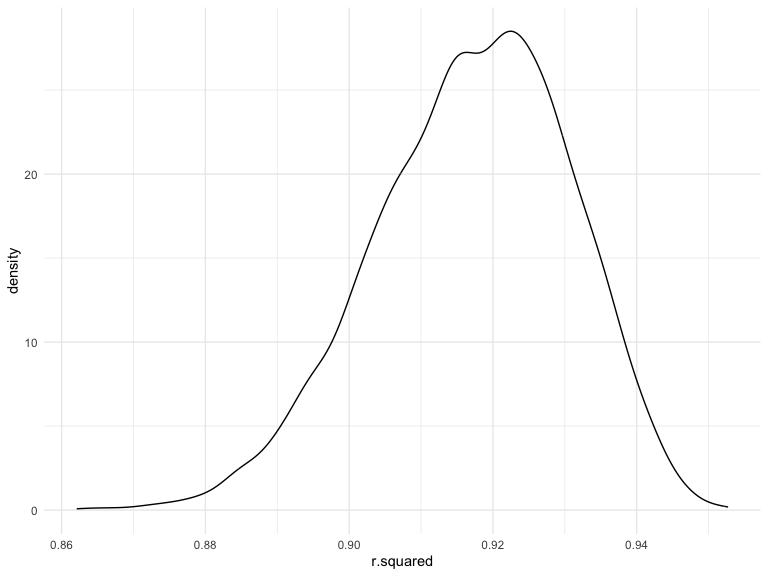
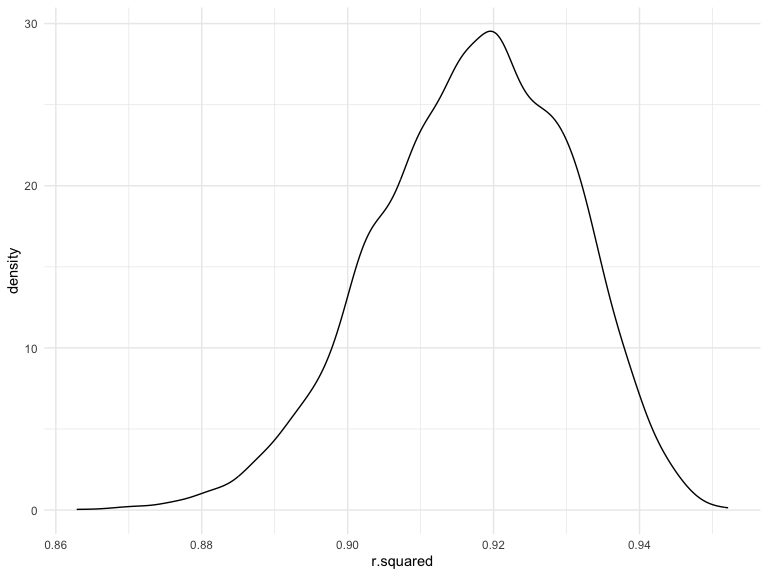
Solve for question 3 - First I Loaded and cleaned the data for regression analysis. - Then I Proposed a regression model for birthweight based on a hypothesized structure for the factors that underly birthweight. - Then I made a plot of model residuals against fitted values. - Fianlly I compared my 

diff --git a/p8105_hw6_jw4348.md b/p8105_hw6_jw4348.md
@@ -223,7 +223,7 @@ boot_results_rsquare |>
     ## # A tibble: 1 × 2
     ##   ci_lower ci_upper
     ##      <dbl>    <dbl>
-    ## 1    0.889    0.941
+    ## 1    0.889    0.940
 
 ### Next I will use 5000 bootstrap samples and produce estimates of `log(beta1*beta2)` quantities.
 
@@ -276,8 +276,222 @@ boot_results_logbeta |>
     ## # A tibble: 1 × 2
     ##   ci_lower ci_upper
     ##      <dbl>    <dbl>
-    ## 1    -9.22    -4.54
+    ## 1    -8.72    -4.57
 
 - Because we can’t compute the 95%CI for the estimates of `NaN` values,
   therefore we only produce the 95% confidence interval of
   `log(beta1*beta2)` only restricted **non-NaN** values.
+
+## Problem 3
+
+### First I will load and clean the data for regression analysis, convert some variables from numeric to factor.
+
+``` r
+birthweight_df = 
+  read_csv("data/birthweight.csv", na = c("", "NA", "Unknown")) |> 
+  mutate(
+    babysex = as.factor(babysex),
+    frace = as.factor(frace),
+    malform = as.factor(malform),
+    mrace = as.factor(mrace)
+  ) 
+```
+
+    ## Rows: 4342 Columns: 20
+    ## ── Column specification ────────────────────────────────────────────────────────
+    ## Delimiter: ","
+    ## dbl (20): babysex, bhead, blength, bwt, delwt, fincome, frace, gaweeks, malf...
+    ## 
+    ## ℹ Use `spec()` to retrieve the full column specification for this data.
+    ## ℹ Specify the column types or set `show_col_types = FALSE` to quiet this message.
+
+``` r
+birthweight_df
+```
+
+    ## # A tibble: 4,342 × 20
+    ##    babysex bhead blength   bwt delwt fincome frace gaweeks malform menarche
+    ##    <fct>   <dbl>   <dbl> <dbl> <dbl>   <dbl> <fct>   <dbl> <fct>      <dbl>
+    ##  1 2          34      51  3629   177      35 1        39.9 0             13
+    ##  2 1          34      48  3062   156      65 2        25.9 0             14
+    ##  3 2          36      50  3345   148      85 1        39.9 0             12
+    ##  4 1          34      52  3062   157      55 1        40   0             14
+    ##  5 2          34      52  3374   156       5 1        41.6 0             13
+    ##  6 1          33      52  3374   129      55 1        40.7 0             12
+    ##  7 2          33      46  2523   126      96 2        40.3 0             14
+    ##  8 2          33      49  2778   140       5 1        37.4 0             12
+    ##  9 1          36      52  3515   146      85 1        40.3 0             11
+    ## 10 1          33      50  3459   169      75 2        40.7 0             12
+    ## # ℹ 4,332 more rows
+    ## # ℹ 10 more variables: mheight <dbl>, momage <dbl>, mrace <fct>, parity <dbl>,
+    ## #   pnumlbw <dbl>, pnumsga <dbl>, ppbmi <dbl>, ppwt <dbl>, smoken <dbl>,
+    ## #   wtgain <dbl>
+
+### Then I will check is there missing data in `birthweight_df`.
+
+``` r
+sapply(birthweight_df, function(x) sum(is.na(x)))
+```
+
+    ##  babysex    bhead  blength      bwt    delwt  fincome    frace  gaweeks 
+    ##        0        0        0        0        0        0        0        0 
+    ##  malform menarche  mheight   momage    mrace   parity  pnumlbw  pnumsga 
+    ##        0        0        0        0        0        0        0        0 
+    ##    ppbmi     ppwt   smoken   wtgain 
+    ##        0        0        0        0
+
+- There is no any missing values in **birthweight_df**.
+
+### Then I will choose the variables I think might be factors of birthweight then fit in the model.
+
+- In my model, I will include `blength`, `malform`, `ppbmi`, `wtgain`,
+  `smoken`, and `momage` with the reasons based on a hypothesized
+  structure for the factors that underly birthweight:
+
+  - Mother’s Pre-pregnancy BMI (ppbmi): Maternal BMI is a crucial
+    indicator of maternal health and nutrition status, which
+    significantly affect fetal growth. Both underweight and overweight
+    pre-pregnancy BMIs are associated with adverse birth outcomes.
+
+  - Baby’s length at birth (blength): Birth length and birth weight are
+    directly related, as both are indicators of the baby’s overall size
+    and development. A longer baby is generally expected to weigh more.
+
+  - Mother’s Age at Delivery (momage): Maternal age can influence birth
+    outcomes, with very young and older mothers often facing higher
+    risks of complications that can affect the baby’s birth weight.
+
+- Presence of Malformations (malform): Any congenital malformations
+  could potentially impact the baby’s growth and development, thereby
+  affecting birth weight.
+
+  - Number of Cigarettes Smoked Per Day During Pregnancy (smoken):
+    Smoking during pregnancy is a known risk factor for reduced fetal
+    growth and low birth weight. The number of cigarettes smoked can
+    have a dose-response relationship with birth weight.
+
+  - Mother’s Weight Gain During Pregnancy (wtgain): Weight gain during
+    pregnancy is directly related to fetal growth. Adequate weight gain
+    is essential for a healthy birth weight, while both insufficient and
+    excessive gains are risk factors for low and high birth weight,
+    respectively.
+
+``` r
+birthweight_model =
+  lm(bwt ~ ppbmi + blength + momage + malform + smoken + wtgain, 
+     data = birthweight_df)
+
+summary(birthweight_model)
+```
+
+    ## 
+    ## Call:
+    ## lm(formula = bwt ~ ppbmi + blength + momage + malform + smoken + 
+    ##     wtgain, data = birthweight_df)
+    ## 
+    ## Residuals:
+    ##     Min      1Q  Median      3Q     Max 
+    ## -1676.4  -220.3    -7.2   205.6  4302.6 
+    ## 
+    ## Coefficients:
+    ##               Estimate Std. Error t value Pr(>|t|)    
+    ## (Intercept) -4017.8303    98.5154 -40.784  < 2e-16 ***
+    ## ppbmi           7.8253     1.6128   4.852 1.27e-06 ***
+    ## blength       132.7512     1.9191  69.172  < 2e-16 ***
+    ## momage         11.8044     1.3258   8.904  < 2e-16 ***
+    ## malform1       30.8692    86.4451   0.357    0.721    
+    ## smoken         -2.7605     0.6889  -4.007 6.25e-05 ***
+    ## wtgain          5.9192     0.4786  12.368  < 2e-16 ***
+    ## ---
+    ## Signif. codes:  0 '***' 0.001 '**' 0.01 '*' 0.05 '.' 0.1 ' ' 1
+    ## 
+    ## Residual standard error: 333.8 on 4335 degrees of freedom
+    ## Multiple R-squared:  0.5758, Adjusted R-squared:  0.5752 
+    ## F-statistic: 980.8 on 6 and 4335 DF,  p-value: < 2.2e-16
+
+- Based on summary, most estimates are significant. The prediction seems
+  pretty good.
+
+### Then I will make a plot of model residuals against fitted values.
+
+``` r
+birthweight_df |> 
+  add_predictions(birthweight_model) |> 
+  add_residuals(birthweight_model) |> 
+  ggplot(
+    aes( x = pred, y = resid)) + 
+    geom_point(alpha = 0.5) +
+  labs(
+    title = "Model residuals against fitted values",
+    x = "Fitted Values",
+    y = "Residuals"
+      )
+```
+
+<img src="p8105_hw6_jw4348_files/figure-gfm/unnamed-chunk-12-1.png" width="90%" />
+
+- The bulk of the data points form a dense cloud around the zero line of
+  residuals, indicating that for many observations, the model’s
+  predictions are close to the actual values. However, there’s a visible
+  spread of residuals as the fitted values increase, which might
+  indicate heteroscedasticity—meaning the variability of the residuals
+  is not constant across all levels of the independent variable(s).
+- Also, there are some outliers, particularly for higher fitted values,
+  should be investigated further as they can have a significant
+  influence on the regression model.
+
+### Then I will compare my model to two others:
+
+``` r
+cv_df =
+  crossv_mc(birthweight_df, 100) |> 
+  mutate(
+    train = map(train, as_tibble),
+    test = map(test, as_tibble)) |> 
+  mutate(
+    my_model = map(.x = train, ~lm(bwt ~ ppbmi + blength + momage + malform + smoken + wtgain, data = birthweight_df)),
+    main_model = map(.x = train, ~lm(bwt ~ blength + gaweeks, data = birthweight_df)),
+    interaction_model = map(.x = train, ~lm(bwt ~ bhead + blength + babysex + bhead * blength + blength * babysex + bhead * babysex + bhead * blength * babysex, data = birthweight_df))
+         ) |> 
+   mutate(
+    rmse_my = map2_dbl(my_model, test, ~rmse(model = .x, data = .y)),
+    rmse_main = map2_dbl(main_model, test, ~rmse(model = .x, data = .y)),
+    rmse_interaction = map2_dbl(interaction_model, test, ~rmse(model = .x, data = .y))
+         )
+```
+
+- **my_model** is the model based on a hypothesized structure for the
+  factors that underly birthweight I made previously.
+- **main_model** is the model using length at birth and gestational age
+  as predictors (main effects only).
+- **interaction_model** is the model using head circumference, length,
+  sex, and all interactions (including the three-way interaction)
+  between these.
+
+### Finally, I’ll plot the prediction error distribution for each candidate model.
+
+``` r
+cv_df |> 
+  select(starts_with("rmse")) |> 
+  pivot_longer(
+    everything(),
+    names_to = "model", 
+    values_to = "rmse",
+    names_prefix = "rmse_") |> 
+  mutate(model = fct_inorder(model)) |> 
+  ggplot(aes(x = model, y = rmse, color = model)) + 
+    geom_violin() +
+    labs(
+      title = "Comparison of Cross-Validated Prediction Errors for Birth Weight Models"
+        )
+```
+
+<img src="p8105_hw6_jw4348_files/figure-gfm/unnamed-chunk-14-1.png" width="90%" />
+
+- From the violin plot, `my_model` has similar rmse performance of
+  `main_model`. And `interaction_model` has the best performance because
+  of lowest overall rmse value.
+- Possible reason of bad performance of `my_model` can be extremely
+  outlier in some variables influence rmse, cause we can clearly see
+  some outliers in the graph of **Model residuals against fittted
+  values** previously.
